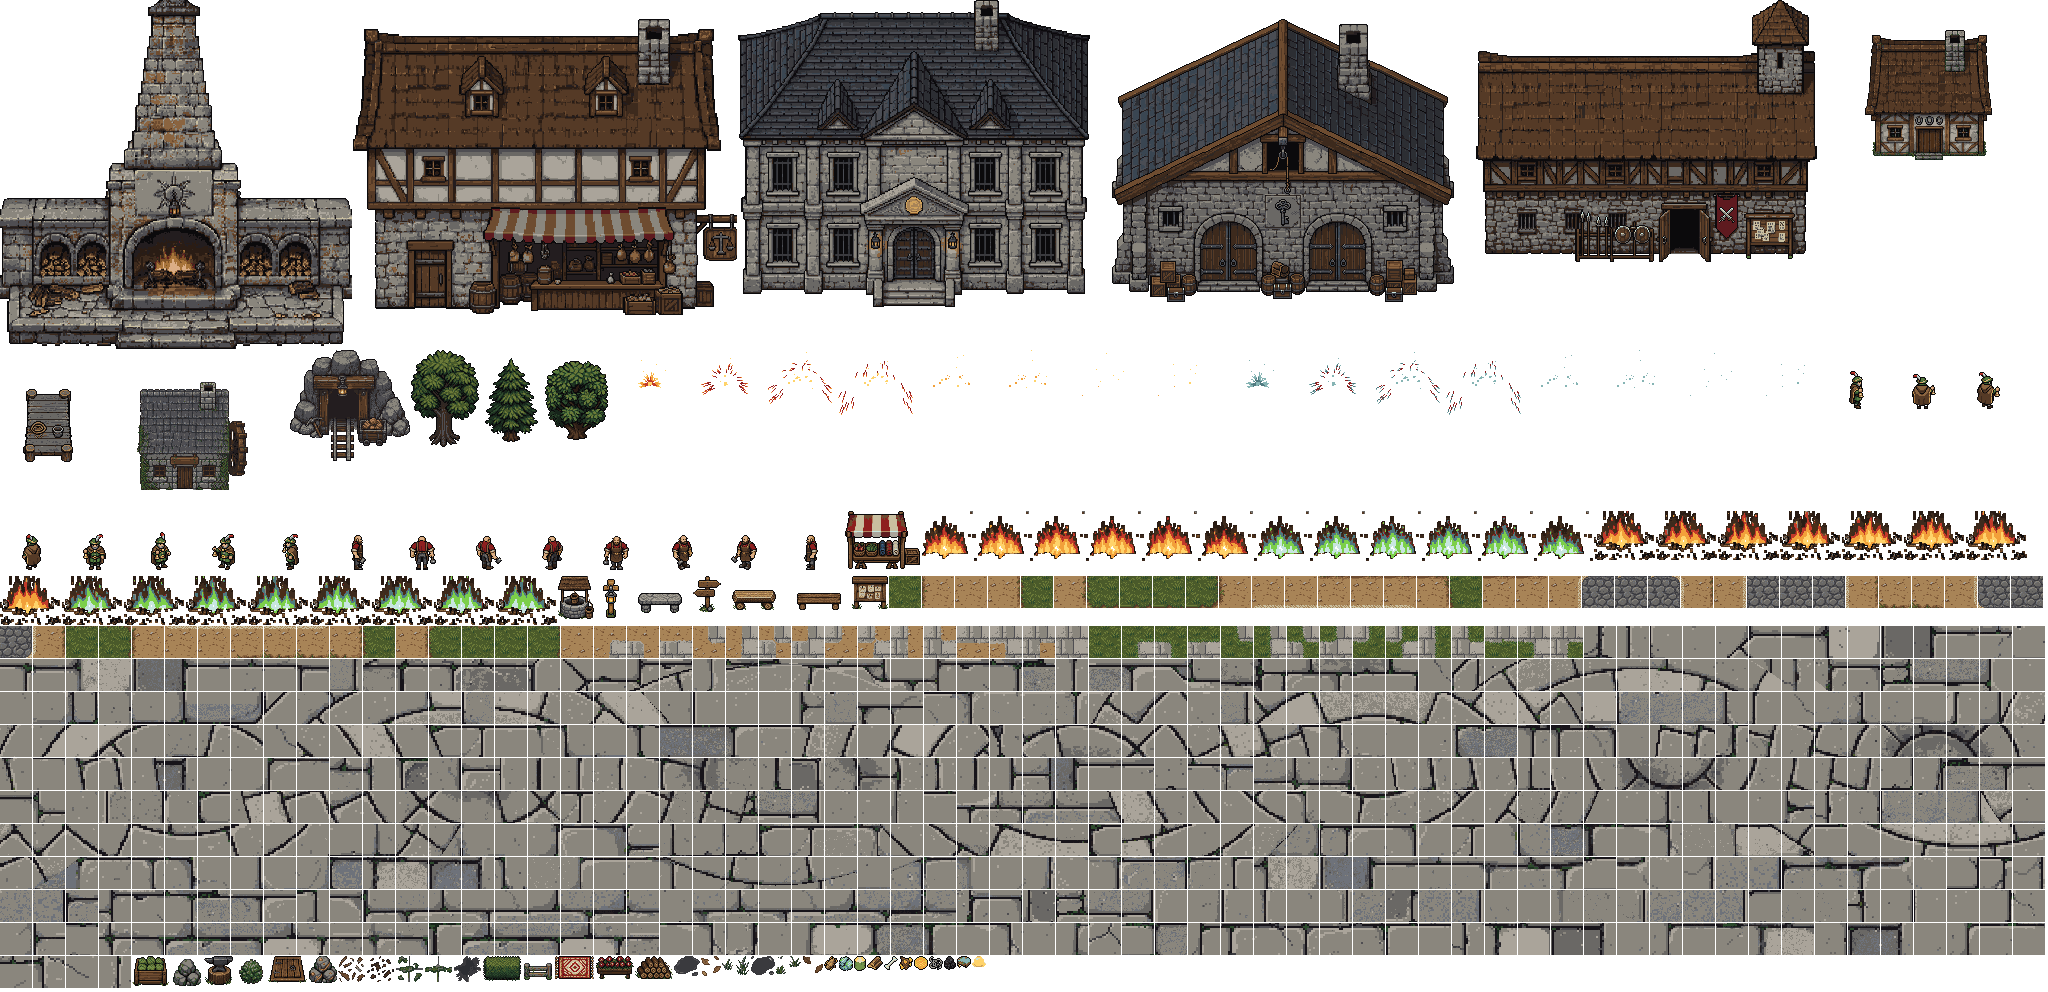
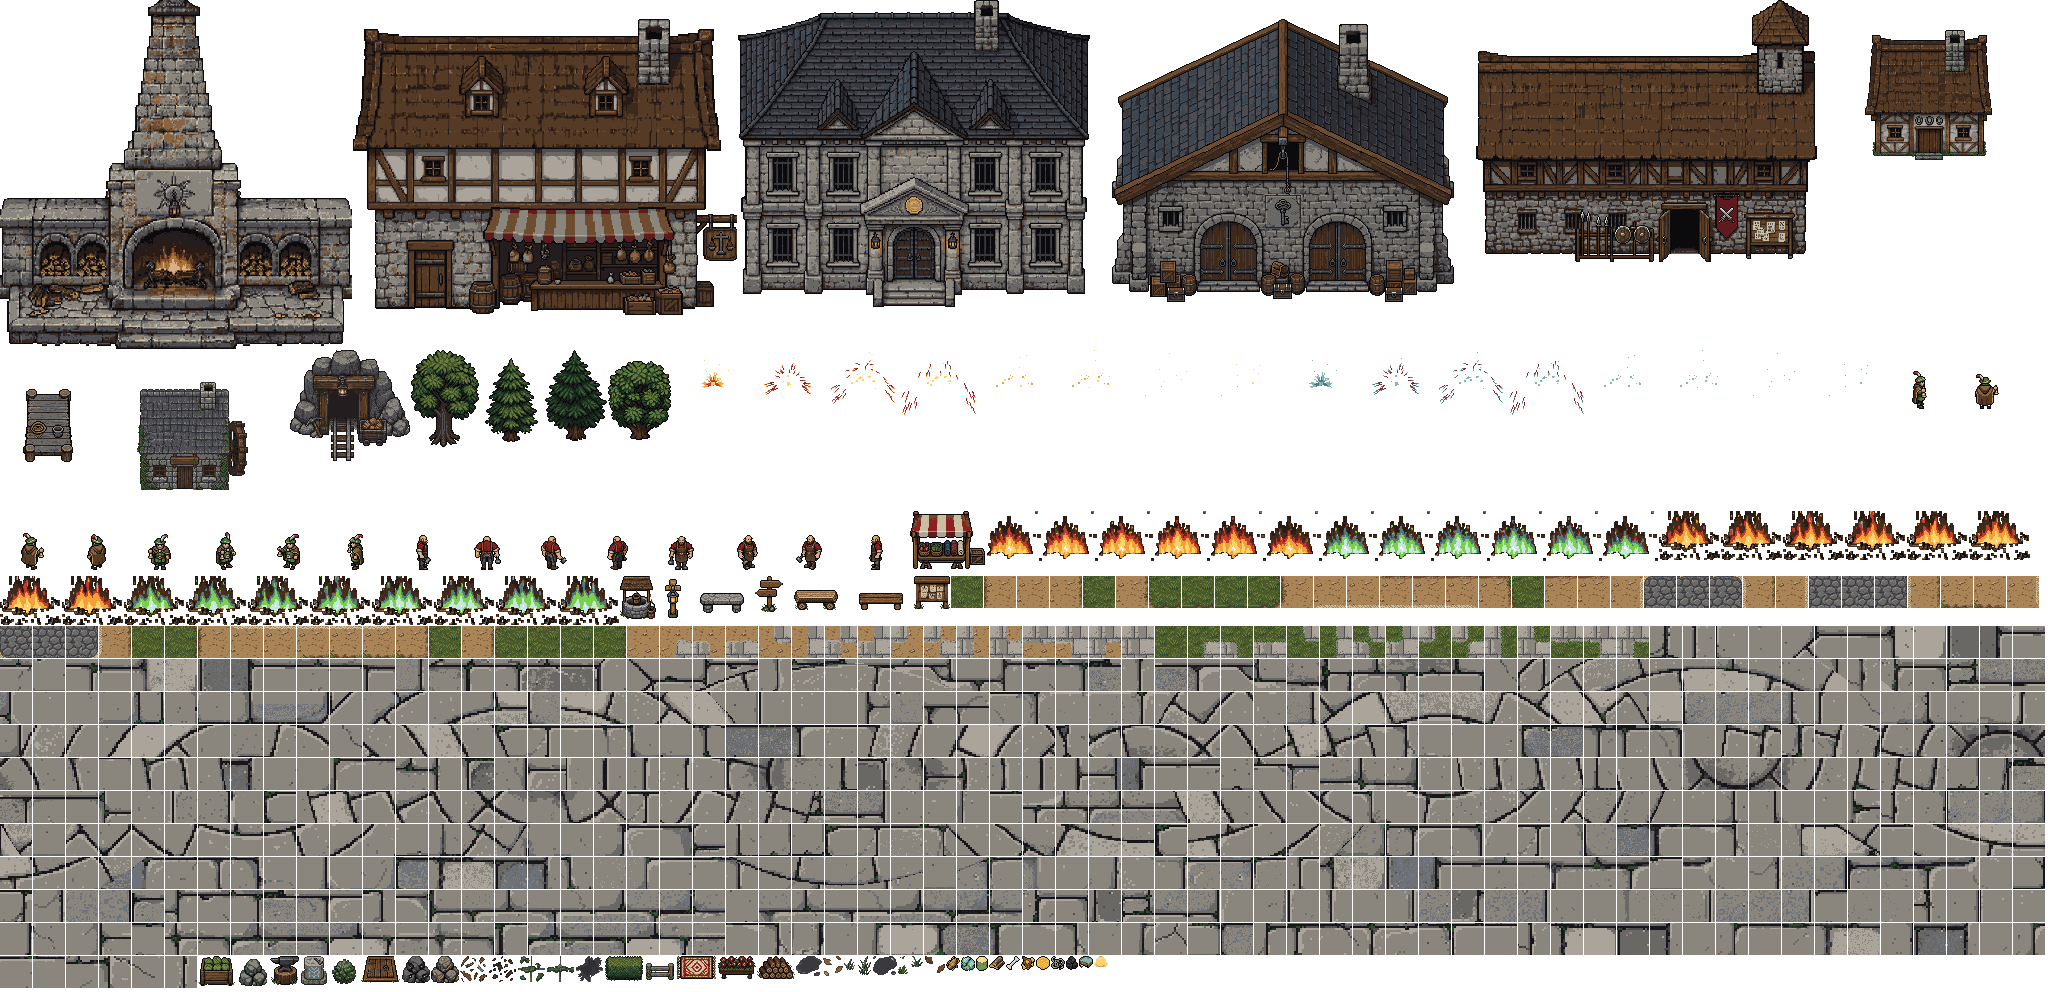
LANE DONE: lane/b-hearth-art — Great Hearth, burn, Hearth Square paving + ring, district samples (staged, no map)
Adds rune block, yew, coal rock; registry regenerated; coordination notes.
Exit 0: world-assets, world-core, hunt-core/forest-cave, hunt-scene, build.mjs --check.
Not run: lane-done (closed-game rule in CLAUDE.md section 4).

diff --git a/ASSET_MANIFEST.md b/ASSET_MANIFEST.md
@@ -151,7 +151,7 @@ KNOWN_TWINS entries are gone). Decision: **retain**; approved: Asset Director (d
 ### World atlas registry (2026-10-15) — every world sprite and terrain, and what happens to it
 
 The registry Tyler's PixelLab directive asks for; there is no second registry. One row per sidecar in
-`art/world/<set>/*.json` (236 today), printed by `node tools/world-art/registry.mjs` from the sidecars
+`art/world/<set>/*.json` (239 today), printed by `node tools/world-art/registry.mjs` from the sidecars
 and the built manifests, plus the Art Director's decision (the `D` table in that script). **retain** =
 ships as is; **edit** = keep the asset and change it, cheapest fix first (`docs/PIXELLAB_WORKFLOW.md`);
 **replace** = a new asset. **Approval:** every row was approved for the world when its atlas was built
@@ -291,10 +291,12 @@ landed 2026-10-15 (40 generations, all R3; approval pending Tyler); R2 waits for
 | npc_crier | common | character | 64×64 | idle 1@5 | senwseswnenw | **retain** | see sidecar |
 | npc_smith | common | character | 64×64 | idle 1@5 | senwseswnenw | **retain** | see sidecar |
 | oak | common | sapling | 64×90 | idle 1 | s | **retain** | see sidecar |
+| ore_coal_rock | common | bulky | 28×27 | idle 1 | s | **staged**: on no map yet (Hearth Square, 2026-10-25); approved: art-director 2026-10-25, Tyler pending | see sidecar |
 | ore_copper_rock | common | bulky | 28×27 | idle 1 | s | **staged**: on no map yet (Hearth Square, 2026-10-25); approved: art-director 2026-10-25, Tyler pending | see sidecar |
 | pine | common | sapling | 64×92 | idle 1 | s | **retain** | see sidecar |
 | rocks | common | bulky | 32×30 | idle 1 | s | **retain** | see sidecar |
 | rug | common | decal | 40×23 | idle 1 | s | **retain** | create_image_pro_flash |
+| rune_block | common | bulky | 26×29 | idle 1 | s | **staged**: on no map yet (Hearth Square, 2026-10-25); approved: art-director 2026-10-25, Tyler pending | see sidecar |
 | signpost | common | fixture | 28×36 | idle 1 | s | **retain** | create_image_pro_flash |
 | smithy | common | building | 224×160 | idle 1 | s | **retain** | see sidecar |
 | square_bank | common | hall | 352×307 | idle 1 | s | **staged**: on no map yet (Hearth Square, 2026-10-25); approved: art-director 2026-10-25, Tyler pending | create_image_pro |
@@ -315,12 +317,13 @@ landed 2026-10-15 (40 generations, all R3; approval pending Tyler); R2 waits for
 | square_decal_tuft_b | common | decal | 26×18 | idle 1 | s | **staged**: on no map yet (Hearth Square, 2026-10-25); approved: art-director 2026-10-25, Tyler pending | create_image_pro |
 | square_depot | common | hall | 384×302 | idle 1 | s | **staged**: on no map yet (Hearth Square, 2026-10-25); approved: art-director 2026-10-25, Tyler pending | create_image_pro |
 | square_dirt_flag | common | terrain | 32×32 tiles | still |  | **staged**: on no map yet (Hearth Square, 2026-10-25); approved: art-director 2026-10-25, Tyler pending | create_topdown_tileset `61093a68` |
-| square_flag_hearthstone | common | terrain | 32×32 tiles | still |  | **staged**: on no map yet (Hearth Square, 2026-10-25); approved: art-director 2026-10-25, Tyler pending | create_topdown_tileset `edb6840f` |
 | square_general_store | common | hall | 384×315 | idle 1 | s | **staged**: on no map yet (Hearth Square, 2026-10-25); approved: art-director 2026-10-25, Tyler pending | create_image_pro |
 | square_grass_flag | common | terrain | 32×32 tiles | still |  | **staged**: on no map yet (Hearth Square, 2026-10-25); approved: art-director 2026-10-25, Tyler pending | create_topdown_tileset `1da34598` |
 | square_market_stall | common | stall | 76×58 | idle 1 | s | **staged**: on no map yet (Hearth Square, 2026-10-25); approved: art-director 2026-10-25, Tyler pending | see sidecar |
+| square_plaza | common | terrain | 32×32 tiles | still |  | **staged**: on no map yet (Hearth Square, 2026-10-25); approved: art-director 2026-10-25, Tyler pending | create_image_pro + inpaint_image |
 | well | common | fixture | 36×43 | idle 1 | s | **retain** | create_image_pro_flash |
 | westwood_ash | common | tree | 68×97 | idle 1 | s | **staged**: on no map yet (Hearth Square, 2026-10-25); approved: art-director 2026-10-25, Tyler pending | see sidecar |
+| westwood_yew | common | tree | 62×91 | idle 1 | s | **staged**: on no map yet (Hearth Square, 2026-10-25); approved: art-director 2026-10-25, Tyler pending | see sidecar |
 | woodpile | common | fixture | 38×23 | idle 1 | s | **retain** | create_image_pro_flash |
 | altar | cottage | fixture | 30×38 | idle 1 | s | **retain** | create_image_pro_flash |
 | apple_crate | cottage | box | 20×21 | idle 1 | s | **retain** | create_image_pro_flash |

diff --git a/.claude/coordination/HANDOFFS.md b/.claude/coordination/HANDOFFS.md
@@ -2,7 +2,7 @@
 
 ### 2026-10-25 · ART (lane/b-hearth-art) → MAP/BUILD LANE (L1, L4) and DESIGNER · Hearth Square art staged, on no map
 
-44 sprites and terrains in `art/world/common` (built into atlas-common), each sidecar's notes say where it sits. `great_hearth` (class landmark, footprint 11x4, anchor bottom-centre); `hearth_fire` (8@8 loop) over it at hearth px (146,238); a fuel landing plays `hearth_flare` (6@10, at 151,228) and `hearth_burn_sparks` (8@12, at 136,232); a `fuel_<family>` chunk flies from the hero's hand to hearth px (176,262) in ~300 ms on a ~26 px arc; `*_verdigris` = the named-fuel colour sample (swap fire, flare and sparks, and the point light tint); the glow = a map point light (tint `hearth`) at the firebox, r ~16 tiles plus ~8. Paving: `square_grass_flag`, `square_dirt_flag`, `square_flag_hearthstone` (wang16). Ring: `square_general_store`, `square_depot`, `square_bank`, `square_barracks` (class hall), `square_market_stall`, benches, 11 wear decals. Samples: `mine_mouth`, `ore_copper_rock`, `westwood_ash`, `fishing_pier`. Designer: DISCOVERIES 2026-10-25 (the depot faces away from the square; store and barracks lots overlap).
+44 sprites and terrains in `art/world/common` (built into atlas-common), each sidecar's notes say where it sits. `great_hearth` (class landmark, footprint 11x4, anchor bottom-centre); `hearth_fire` (8@8 loop) over it at hearth px (146,238); a fuel landing plays `hearth_flare` (6@10, at 151,228) and `hearth_burn_sparks` (8@12, at 136,232); a `fuel_<family>` chunk flies from the hero's hand to hearth px (176,262) in ~300 ms on a ~26 px arc; `*_verdigris` = the named-fuel colour sample (swap fire, flare and sparks, and the point light tint); the glow = a map point light (tint `hearth`) at the firebox, r ~16 tiles plus ~8. Paving: `square_plaza` (painted 24x24, rings centred on local tile 11.5,12.5 = the hearth front) inside a kerb course of `square_grass_flag` / `square_dirt_flag` (wang16). Ring: `square_general_store`, `square_depot`, `square_bank`, `square_barracks` (class hall), `square_market_stall`, benches, 11 wear decals. Samples: `mine_mouth`, `ore_copper_rock`, `ore_coal_rock`, `rune_block`, `westwood_ash`, `westwood_yew`, `fishing_pier`. Designer: DISCOVERIES 2026-10-25 (the depot faces away from the square; store and barracks lots overlap).
 
 ### 2026-10-25 · SYSTEMS (lane/b-tutorial-rings, tutorial lane 2) → COORDINATOR / DESIGNER / ART · what shipped and what is left
 

diff --git a/.claude/coordination/agents/art-director.md b/.claude/coordination/agents/art-director.md
@@ -3076,6 +3076,9 @@ stall. Lessons: (1) the stone grade turns warm fieldstone grey: judge every pick
 be its own `light` sprite or the grade dulls it; (2) animate_image on a crop keeps the arch still when the action
 says so; "something is thrown in" made it draw a flying object across the stone; (3) vfx_workbench parts read
 cartoon next to PixelLab pixels (flame_tongue): keep only its particles (sparks, embers); (4) Wang ellipses on a
-32 px vertex grid stair-step: a round ring needs a big radius or a hand-drawn edge; (5) a 24x24 one-material
-paving reads as a tiled floor: it needs structure (ring, kerb, planters, lamps), decals alone do not break it;
+32 px vertex grid stair-step, and a Wang fill repeats every 32 px: a plaza is a PAINTED ground (create_image_pro
+field, outpainted with inpaint_image windows, seams re-laid by 48 px inpaint bands, the radial rings inpainted as
+a disc mask so they meet the field); (5) the model sizes stones to the canvas: a 512 field gave slabs 2-3 heroes
+long, 256 gave cobbles, 384 gave 1-2 heroes (crop its brick-course top band); a pasted disc never blends, an
+inpainted one does; the named-fuel light is a small pool (r ~7 tiles) or it reads as a screen filter;
 (6) a hand-drawn sprite fails style1 [s1-source] (no PixelLab id): generate even 12 px chunks.
